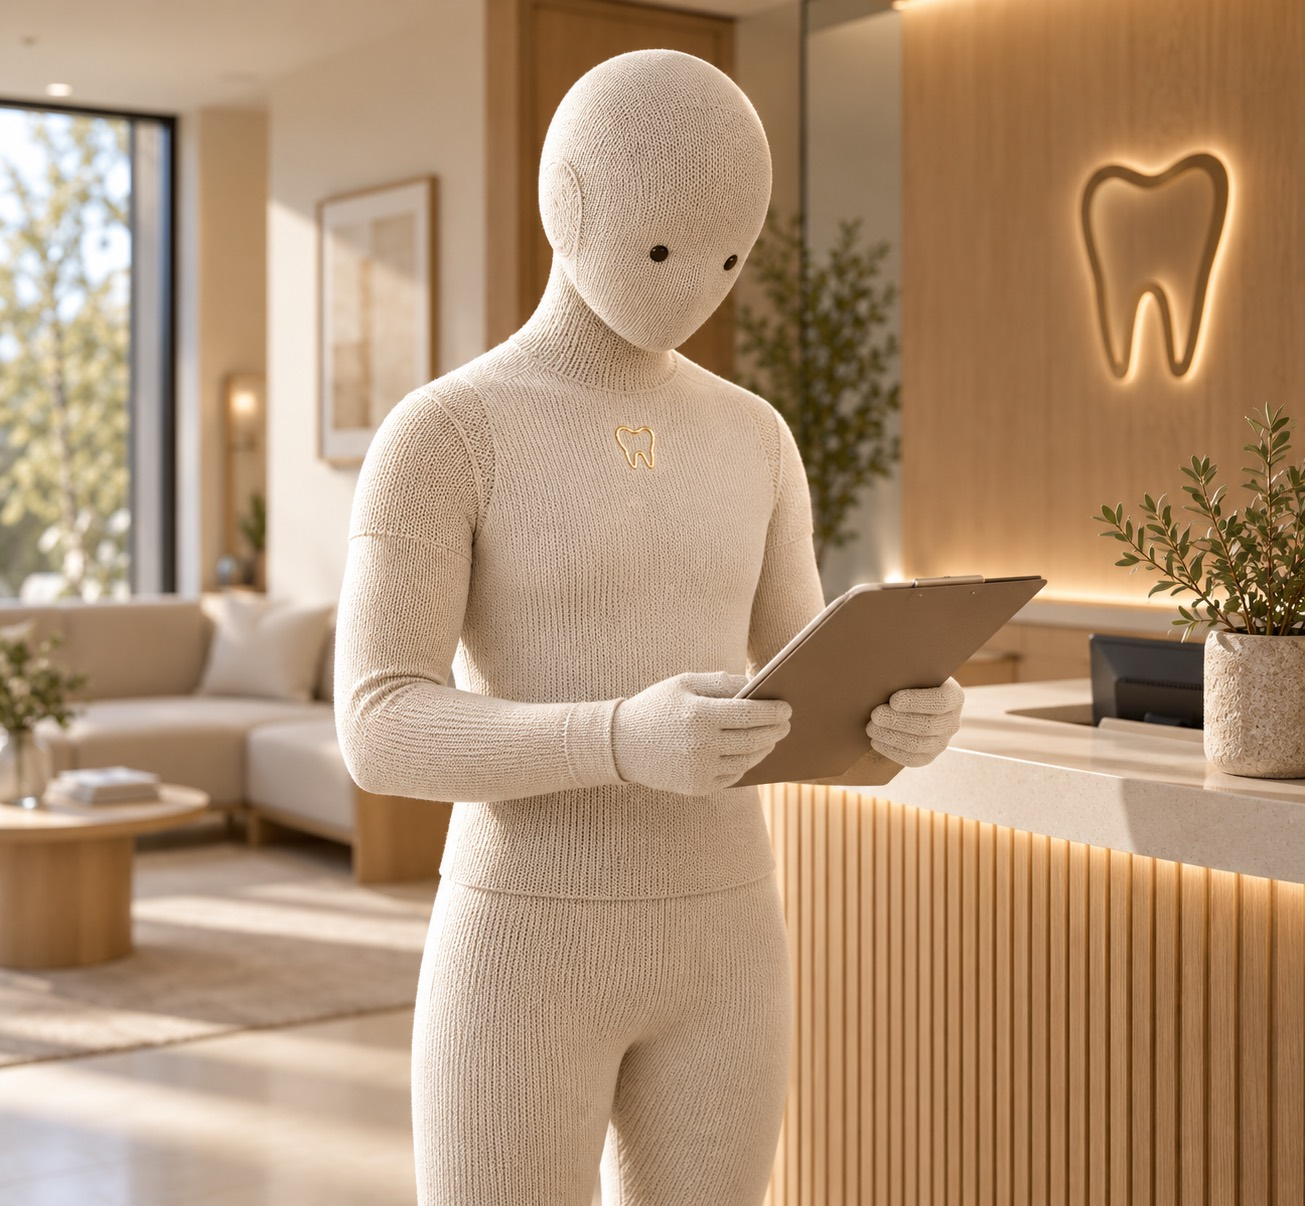
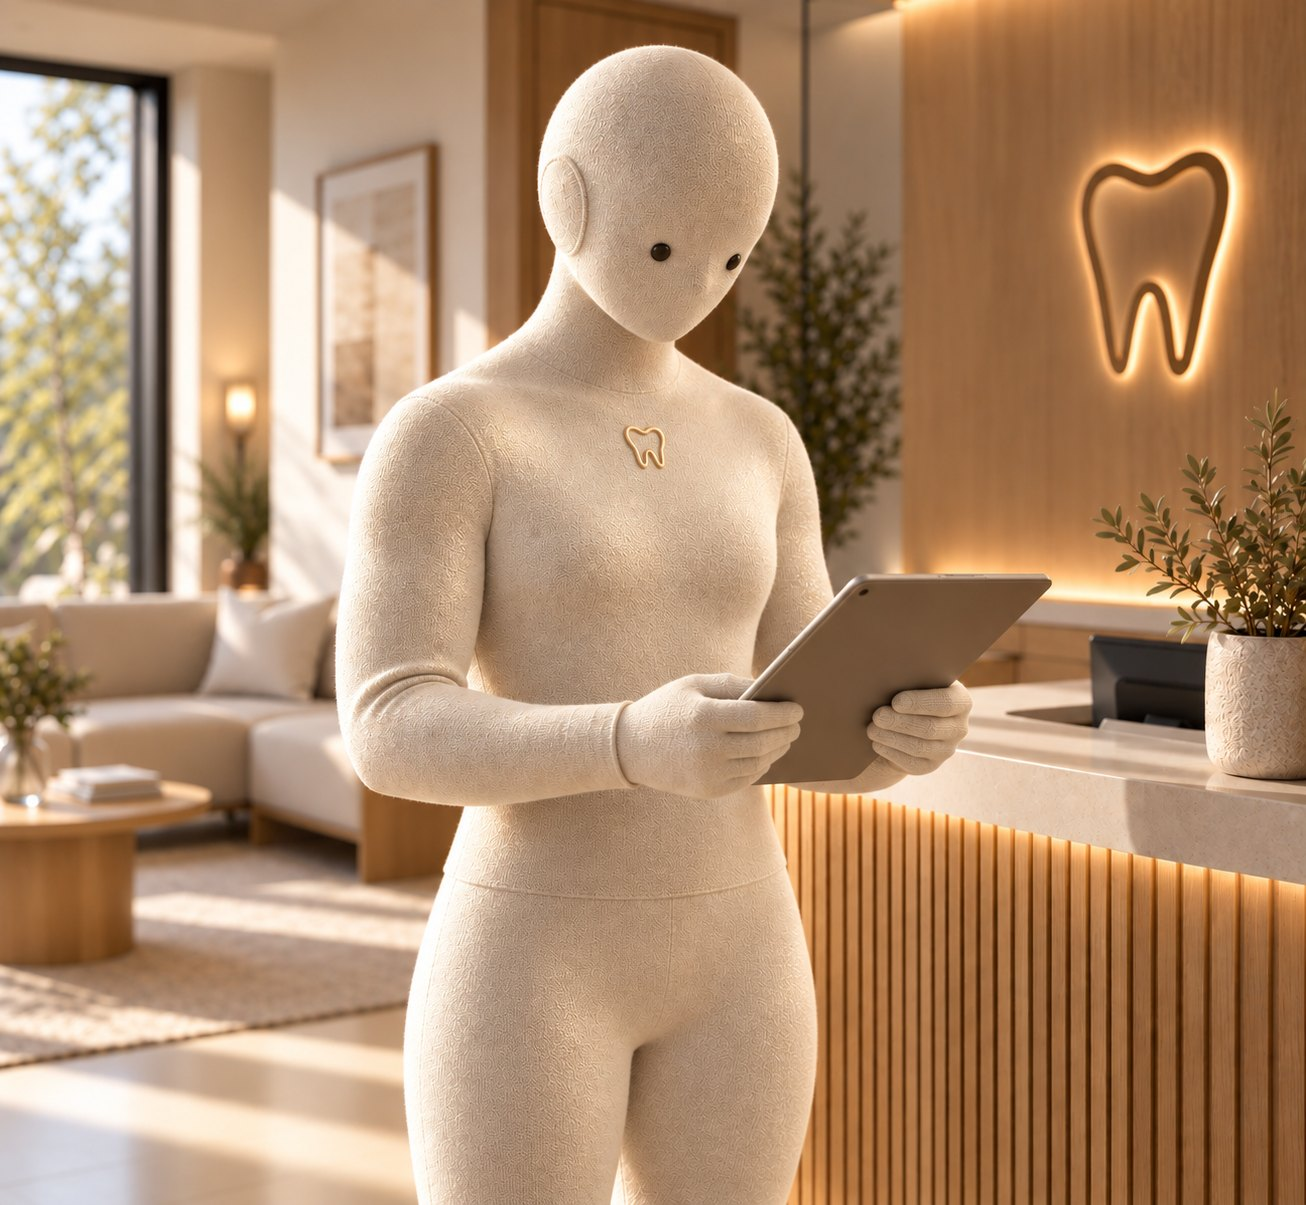
New Mino image everywhere; Mino waitlist: optional 'biggest headache' box

diff --git a/mino/index.html b/mino/index.html
@@ -54,8 +54,9 @@ form{display:grid;grid-template-columns:1fr 1fr;gap:12px;margin-top:16px}
 .full{grid-column:1/-1}
 label{font-size:12px;font-weight:500;letter-spacing:.08em;text-transform:uppercase;color:var(--ink-dim)}
 label .opt{text-transform:none;letter-spacing:0;color:var(--ink-faint);font-weight:300}
-input,select{font:inherit;font-size:16px;color:var(--ink);background:#fff;border:1px solid var(--line);border-radius:12px;padding:12px;width:100%}
-input:focus,select:focus{outline:2px solid var(--gold);outline-offset:1px;border-color:var(--gold)}
+textarea{resize:vertical;min-height:84px}
+input,select,textarea{font:inherit;font-size:16px;color:var(--ink);background:#fff;border:1px solid var(--line);border-radius:12px;padding:12px;width:100%}
+input:focus,select:focus,textarea:focus{outline:2px solid var(--gold);outline-offset:1px;border-color:var(--gold)}
 .consent{grid-column:1/-1;display:flex;gap:10px;align-items:flex-start;font-size:13.5px;text-transform:none;letter-spacing:0;font-weight:300;color:var(--ink-dim)}
 .consent input{width:18px;height:18px;margin-top:4px;flex:none;accent-color:var(--gold)}
 .hp{position:absolute;left:-9999px;width:1px;height:1px;opacity:0}
@@ -91,7 +92,7 @@ footer{border-top:1px solid var(--line);padding-block:26px 40px;color:var(--ink-
   </nav>
 
   <header class="hero">
-    <figure class="photo"><img src="mino.jpg" width="1100" height="1017" alt="Mino, a calm knitted figure with a small gold tooth stitched on his chest, reading a clipboard in a bright dental reception."></figure>
+    <figure class="photo"><img src="mino.jpg" width="1100" height="1015" alt="Mino, a calm knitted figure with a small gold tooth stitched on his chest, reading a tablet in a bright dental reception."></figure>
     <div>
       <div class="soon">Introducing Mino</div>
       <h1>The calm at the centre of your <em>practice.</em></h1>
@@ -106,8 +107,8 @@ footer{border-top:1px solid var(--line);padding-block:26px 40px;color:var(--ink-
             <select id="role"><option>Practice owner</option><option>Practice manager</option><option>Clinician</option><option>Other</option></select></div>
           <div class="field"><label for="size">We have…</label>
             <select id="size"><option>1 practice</option><option>2–5 practices</option><option>6 or more practices</option></select></div>
-          <div class="field"><label for="name">First name <span class="opt">(optional)</span></label><input id="name" type="text" autocomplete="given-name"></div>
-          <div class="field"><label for="practice">Practice <span class="opt">(optional)</span></label><input id="practice" type="text" autocomplete="organization"></div>
+          <div class="field full"><label for="name">First name <span class="opt">(optional)</span></label><input id="name" type="text" autocomplete="given-name"></div>
+          <div class="field full"><label for="issues">What's your biggest headache right now? <span class="opt">(optional)</span></label><textarea id="issues" rows="3" maxlength="600" placeholder="e.g. CQC paperwork, staff rotas, keeping on top of training…"></textarea></div>
           <label class="consent" for="consent"><input id="consent" type="checkbox" required> Yes, email me about Mino and Teething Issues, including when Mino launches. I can unsubscribe any time.</label>
           <input class="hp" type="text" id="website" tabindex="-1" autocomplete="off" aria-hidden="true">
           <button type="submit" id="btn">Join the Mino waitlist</button>
@@ -159,7 +160,7 @@ document.getElementById("wl").addEventListener("submit", function (e) {
   if (!document.getElementById("consent").checked) { err.textContent = "Please tick the box so we can email you when Mino launches."; return; }
   btn.disabled = true; btn.textContent = "Adding you…";
   fetch("https://ti-waitlist.teethingissues.workers.dev", { method: "POST", headers: { "Content-Type": "application/json" },
-    body: JSON.stringify({ email: email.value, name: document.getElementById("name").value, practice: document.getElementById("practice").value,
+    body: JSON.stringify({ email: email.value, name: document.getElementById("name").value, issues: document.getElementById("issues").value,
       role: document.getElementById("role").value, size: document.getElementById("size").value, consent: true, website: document.getElementById("website").value }) })
     .then(function (r) { return r.json(); })
     .then(function (d) {
